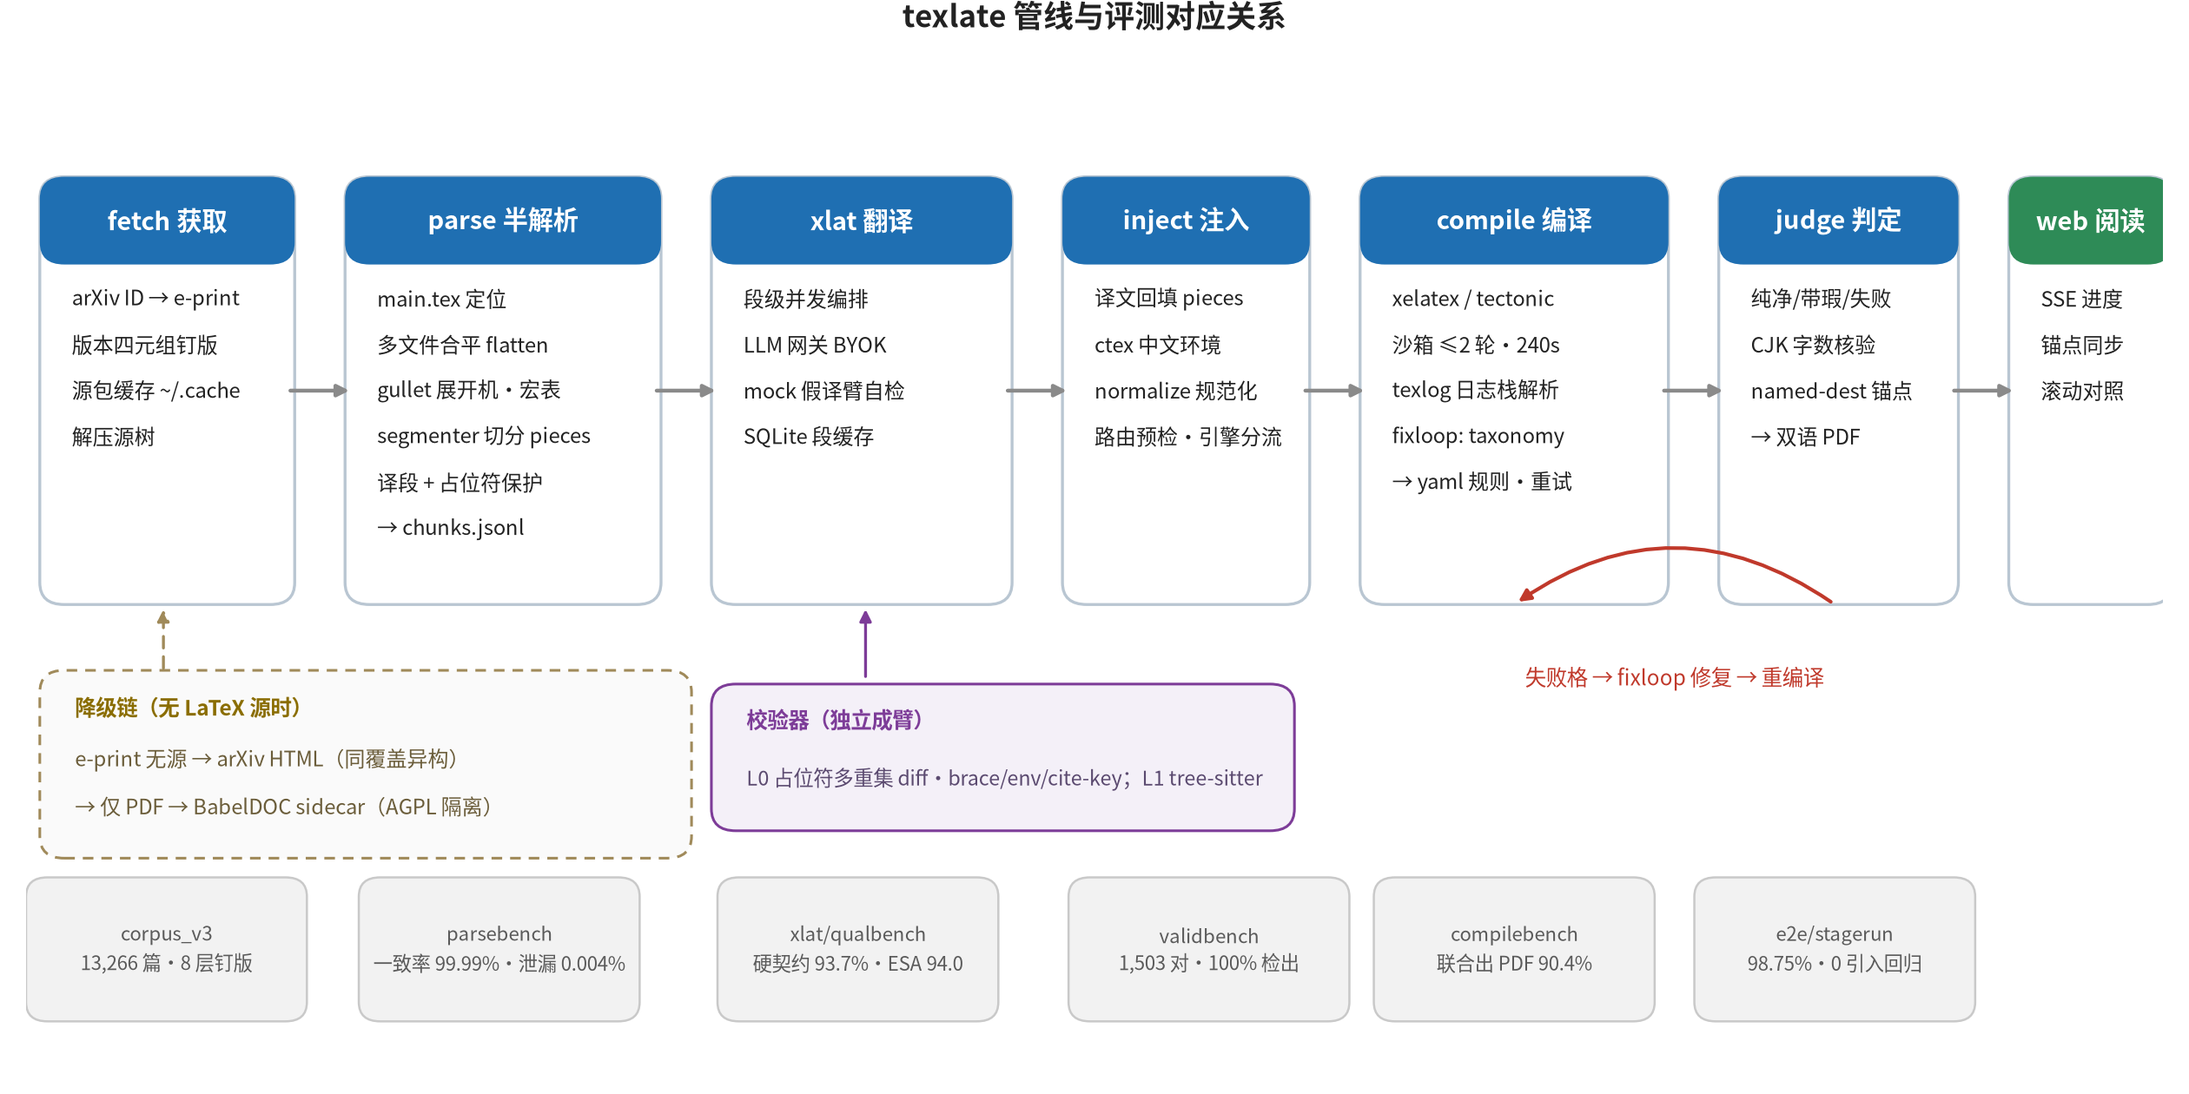
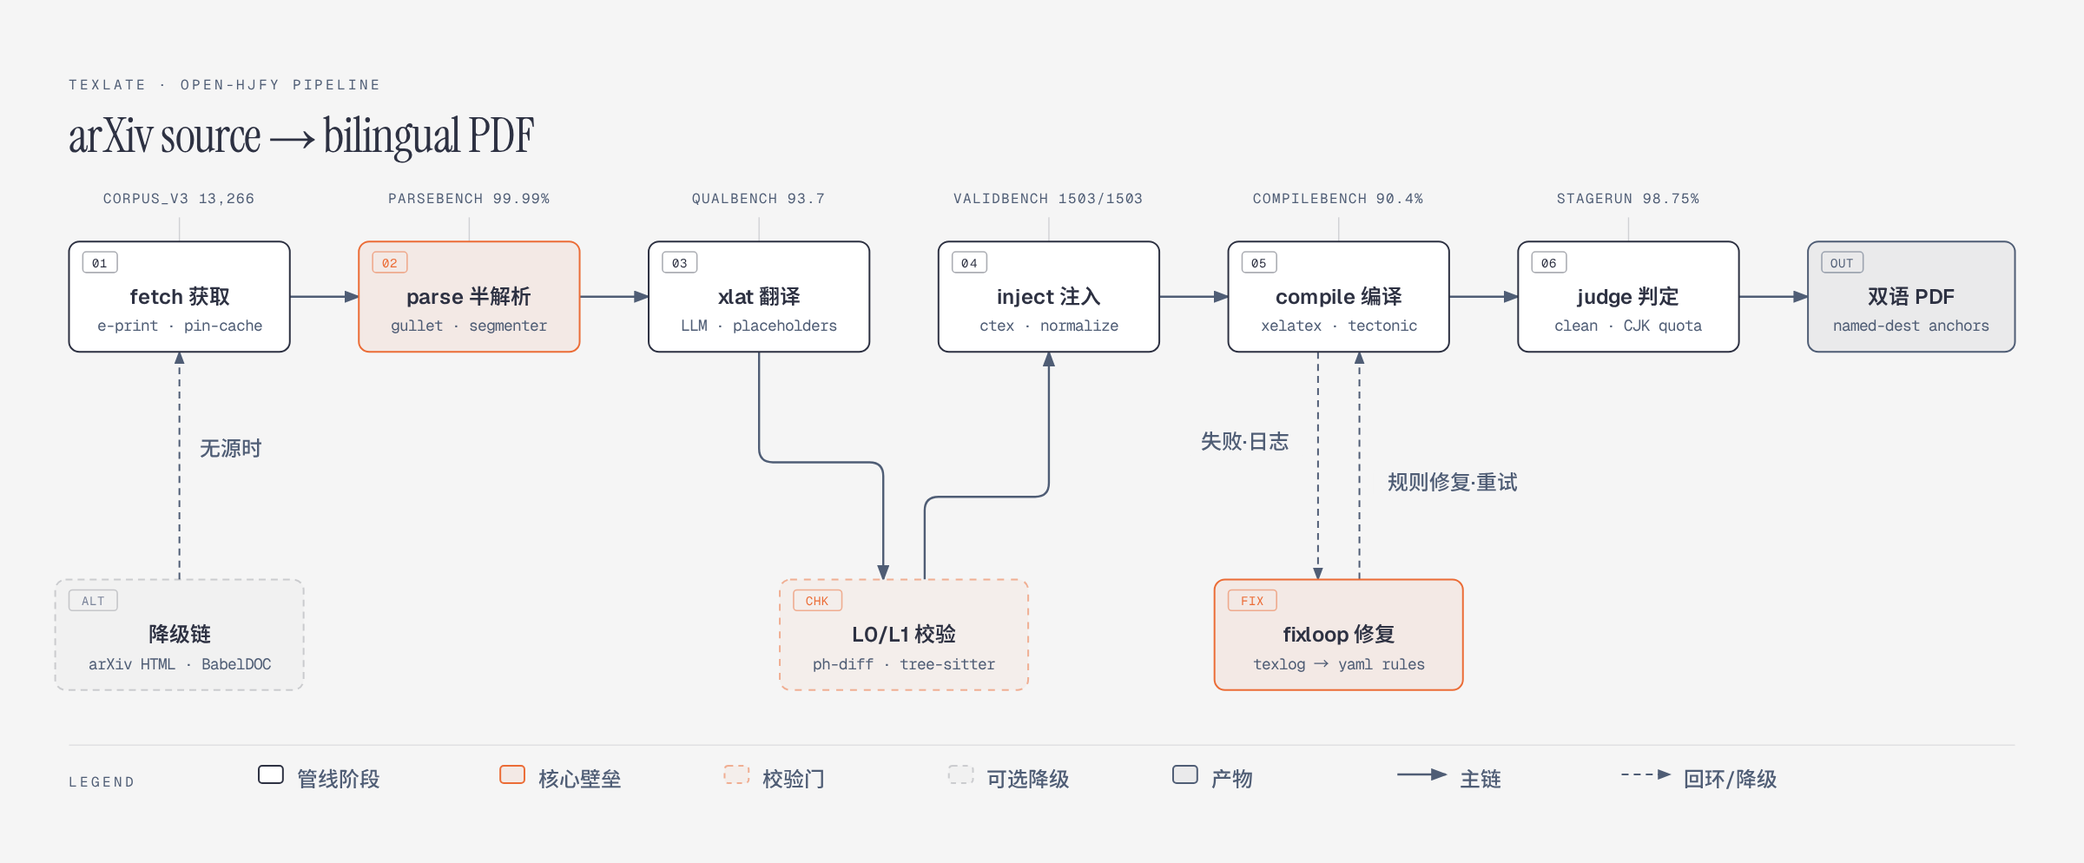
docs(readme): redraw pipeline figure with diagram-design skill
Replace the matplotlib flowchart with a diagram-design architecture
rendering: six canonical stages on a main rail, 双语 PDF terminal,
fallback chain / L0-L1 validation gate / fixloop return pair below,
parse + fixloop as the two focal nodes. Validation now sits inline on
the chain (no direct xlat->inject edge — the gate is load-bearing).
Bench readings move to quiet chips above each stage; web node and
per-stage bullets dropped. Source: bench-pipeline.html (self-check +
geometry verifier clean), PNG @2 via playwright.

diff --git a/docs/research/metrics-2026-09-19/bench-pipeline.html b/docs/research/metrics-2026-09-19/bench-pipeline.html
@@ -1,0 +1,230 @@
+<!DOCTYPE html>
+<html lang="zh-CN">
+<head>
+  <meta charset="UTF-8">
+  <meta name="viewport" content="width=device-width, initial-scale=1.0">
+  <title>texlate 管线全流程 · Architecture</title>
+  <link href="https://fonts.googleapis.com/css2?family=Instrument+Serif:ital@0;1&family=Geist:wght@400;500;600&family=Geist+Mono:wght@400;500;600&family=Noto+Serif:ital@0;1&family=Noto+Sans+KR:wght@400;500;600&family=Noto+Serif+KR:wght@400&family=Noto+Sans+SC:wght@400;500;600&family=Noto+Serif+SC:wght@400&family=Noto+Sans+TC:wght@400;500;600&family=Noto+Serif+TC:wght@400&display=swap" rel="stylesheet">
+  <style>
+    *, *::before, *::after { box-sizing: border-box; margin: 0; padding: 0; }
+    :root {
+      --color-paper:   #f5f5f5;
+      --color-ink:     #2d3142;
+      --color-muted:   #4f5d75;
+      --color-accent:  #eb6c36;
+      --font-sans:     'Geist', 'Noto Sans SC', 'Noto Sans CJK SC', 'PingFang SC', 'Microsoft YaHei', system-ui, sans-serif;
+      --font-serif:    'Instrument Serif', 'Noto Serif', 'Noto Serif SC', 'Noto Serif CJK SC', serif;
+      --font-mono:     'Geist Mono', ui-monospace, monospace;
+    }
+
+    body {
+      font-family: var(--font-sans);
+      background: var(--color-paper);
+      color: var(--color-ink);
+      min-height: 100vh;
+      display: flex;
+      align-items: center;
+      justify-content: center;
+      padding: 3rem 2rem;
+    }
+
+    .frame { max-width: 1200px; width: 100%; }
+
+    .eyebrow {
+      font-family: var(--font-mono);
+      font-size: 0.66rem;
+      font-weight: 500;
+      letter-spacing: 0.18em;
+      text-transform: uppercase;
+      color: var(--color-muted);
+      margin-bottom: 0.5rem;
+    }
+
+    h1 {
+      font-family: var(--font-serif);
+      font-size: clamp(1.5rem, 2.4vw + 0.75rem, 2rem);
+      font-weight: 400;
+      letter-spacing: -0.02em;
+      line-height: 1.15;
+      color: var(--color-ink);
+      margin-bottom: 1.5rem;
+    }
+
+    svg { width: 100%; min-width: 900px; display: block; }
+  </style>
+</head>
+<body>
+  <div class="frame">
+    <p class="eyebrow">Architecture · Diagram Design</p>
+    <h1>texlate 管线全流程</h1>
+
+    <svg viewBox="0 0 1208 500" xmlns="http://www.w3.org/2000/svg" role="img" aria-labelledby="texlate-pipeline-title texlate-pipeline-desc">
+      <title id="texlate-pipeline-title">texlate pipeline — arXiv source to bilingual PDF</title>
+      <desc id="texlate-pipeline-desc">Pipeline diagram showing six stages (fetch, parse, xlat, inject, compile, judge) producing a bilingual PDF, with a fallback source chain, an L0/L1 validation gate, and the fixloop repair engine as focal elements.</desc>
+      <defs>
+        <marker id="arrow" markerWidth="8" markerHeight="6" refX="7" refY="3" orient="auto"><polygon points="0 0, 8 3, 0 6" fill="#4f5d75"/></marker>
+        <marker id="arrow-accent" markerWidth="8" markerHeight="6" refX="7" refY="3" orient="auto"><polygon points="0 0, 8 3, 0 6" fill="#eb6c36"/></marker>
+        <marker id="arrow-link" markerWidth="8" markerHeight="6" refX="7" refY="3" orient="auto"><polygon points="0 0, 8 3, 0 6" fill="#2e5aa8"/></marker>
+      </defs>
+
+      <rect width="100%" height="100%" fill="#f5f5f5"/>
+
+      <!-- In-SVG header (kept inside so PNG export stays self-explanatory) -->
+      <text x="40" y="52" fill="#4f5d75" font-size="8" font-family="'Geist Mono', ui-monospace, monospace" letter-spacing="0.18em">TEXLATE · OPEN-HJFY PIPELINE</text>
+      <text x="40" y="88" fill="#2d3142" font-size="28" font-weight="400" font-family="'Instrument Serif', 'Noto Serif', serif" letter-spacing="-0.02em">arXiv source → bilingual PDF</text>
+
+      <!-- Bench evidence chips above each stage (quiet annotation row) -->
+      <text x="104" y="118" fill="#4f5d75" font-size="8" font-family="'Geist Mono', ui-monospace, monospace" text-anchor="middle" letter-spacing="0.06em">CORPUS_V3 13,266</text>
+      <text x="272" y="118" fill="#4f5d75" font-size="8" font-family="'Geist Mono', ui-monospace, monospace" text-anchor="middle" letter-spacing="0.06em">PARSEBENCH 99.99%</text>
+      <text x="440" y="118" fill="#4f5d75" font-size="8" font-family="'Geist Mono', ui-monospace, monospace" text-anchor="middle" letter-spacing="0.06em">QUALBENCH 93.7</text>
+      <text x="608" y="118" fill="#4f5d75" font-size="8" font-family="'Geist Mono', ui-monospace, monospace" text-anchor="middle" letter-spacing="0.06em">VALIDBENCH 1503/1503</text>
+      <text x="776" y="118" fill="#4f5d75" font-size="8" font-family="'Geist Mono', ui-monospace, monospace" text-anchor="middle" letter-spacing="0.06em">COMPILEBENCH 90.4%</text>
+      <text x="944" y="118" fill="#4f5d75" font-size="8" font-family="'Geist Mono', ui-monospace, monospace" text-anchor="middle" letter-spacing="0.06em">STAGERUN 98.75%</text>
+      <line x1="104" y1="126" x2="104" y2="140" stroke="rgba(45,49,66,0.18)" stroke-width="0.7"/>
+      <line x1="272" y1="126" x2="272" y2="140" stroke="rgba(45,49,66,0.18)" stroke-width="0.7"/>
+      <line x1="440" y1="126" x2="440" y2="140" stroke="rgba(45,49,66,0.18)" stroke-width="0.7"/>
+      <line x1="608" y1="126" x2="608" y2="140" stroke="rgba(45,49,66,0.18)" stroke-width="0.7"/>
+      <line x1="776" y1="126" x2="776" y2="140" stroke="rgba(45,49,66,0.18)" stroke-width="0.7"/>
+      <line x1="944" y1="126" x2="944" y2="140" stroke="rgba(45,49,66,0.18)" stroke-width="0.7"/>
+
+      <!-- ============ Arrows (drawn before all node boxes) ============ -->
+      <!-- Main chain, y=172 -->
+      <line x1="168" y1="172" x2="208" y2="172" stroke="#4f5d75" stroke-width="1.2" marker-end="url(#arrow)"/>
+      <line x1="336" y1="172" x2="376" y2="172" stroke="#4f5d75" stroke-width="1.2" marker-end="url(#arrow)"/>
+      <!-- no direct xlat→inject edge: the chain dips through the L0/L1 gate below -->
+      <line x1="672" y1="172" x2="712" y2="172" stroke="#4f5d75" stroke-width="1.2" marker-end="url(#arrow)"/>
+      <line x1="840" y1="172" x2="880" y2="172" stroke="#4f5d75" stroke-width="1.2" marker-end="url(#arrow)"/>
+      <line x1="1008" y1="172" x2="1048" y2="172" stroke="#4f5d75" stroke-width="1.2" marker-end="url(#arrow)"/>
+
+      <!-- Fallback chain → fetch (dashed, alternative intake) -->
+      <line x1="104" y1="336" x2="104" y2="204" stroke="#4f5d75" stroke-width="1" stroke-dasharray="4,3" marker-end="url(#arrow)"/>
+
+      <!-- xlat → validator (down-right-down elbow) -->
+      <path d="M 440,204 V 260 Q 440,268 448,268 H 504 Q 512,268 512,276 V 336"
+            fill="none" stroke="#4f5d75" stroke-width="1.2" marker-end="url(#arrow)"/>
+      <!-- validator → inject (up-right-up elbow) -->
+      <path d="M 536,336 V 296 Q 536,288 544,288 H 600 Q 608,288 608,280 V 204"
+            fill="none" stroke="#4f5d75" stroke-width="1.2" marker-end="url(#arrow)"/>
+
+      <!-- compile ⇄ fixloop (return pair, dashed) -->
+      <line x1="764" y1="204" x2="764" y2="336" stroke="#4f5d75" stroke-width="1" stroke-dasharray="4,3" marker-end="url(#arrow)"/>
+      <line x1="788" y1="336" x2="788" y2="204" stroke="#4f5d75" stroke-width="1" stroke-dasharray="4,3" marker-end="url(#arrow)"/>
+
+      <!-- Arrow labels (12px sans for CJK per register rule, masked) -->
+      <rect x="112" y="252" width="44" height="16" rx="2" fill="#f5f5f5"/>
+      <text x="134" y="264" fill="#4f5d75" font-size="12" font-weight="500" font-family="'Geist','Noto Sans SC','Noto Sans CJK SC','PingFang SC','Microsoft YaHei',sans-serif" text-anchor="middle">无源时</text>
+      <rect x="688" y="248" width="68" height="16" rx="2" fill="#f5f5f5"/>
+      <text x="722" y="260" fill="#4f5d75" font-size="12" font-weight="500" font-family="'Geist','Noto Sans SC','Noto Sans CJK SC','PingFang SC','Microsoft YaHei',sans-serif" text-anchor="middle">失败·日志</text>
+      <rect x="796" y="272" width="92" height="16" rx="2" fill="#f5f5f5"/>
+      <text x="842" y="284" fill="#4f5d75" font-size="12" font-weight="500" font-family="'Geist','Noto Sans SC','Noto Sans CJK SC','PingFang SC','Microsoft YaHei',sans-serif" text-anchor="middle">规则修复·重试</text>
+
+      <!-- ============ Main-row nodes (y=140..204) ============ -->
+      <!-- 01 fetch -->
+      <rect x="40" y="140" width="128" height="64" rx="6" fill="#f5f5f5"/>
+      <rect x="40" y="140" width="128" height="64" rx="6" fill="#ffffff" stroke="#2d3142" stroke-width="1"/>
+      <rect x="48" y="146" width="20" height="12" rx="2" fill="transparent" stroke="rgba(45,49,66,0.40)" stroke-width="0.8"/>
+      <text x="58" y="155" fill="#2d3142" font-size="7" font-family="'Geist Mono', ui-monospace, monospace" text-anchor="middle" letter-spacing="0.08em">01</text>
+      <text x="104" y="176" fill="#2d3142" font-size="12" font-weight="600" font-family="'Geist','Noto Sans SC','Noto Sans CJK SC','PingFang SC','Microsoft YaHei',sans-serif" text-anchor="middle">fetch 获取</text>
+      <text x="104" y="192" fill="#4f5d75" font-size="9" font-family="'Geist Mono', ui-monospace, monospace" text-anchor="middle">e-print · pin-cache</text>
+
+      <!-- 02 parse (FOCAL) -->
+      <rect x="208" y="140" width="128" height="64" rx="6" fill="#f5f5f5"/>
+      <rect x="208" y="140" width="128" height="64" rx="6" fill="rgba(235,108,54,0.08)" stroke="#eb6c36" stroke-width="1"/>
+      <rect x="216" y="146" width="20" height="12" rx="2" fill="transparent" stroke="rgba(235,108,54,0.50)" stroke-width="0.8"/>
+      <text x="226" y="155" fill="#eb6c36" font-size="7" font-family="'Geist Mono', ui-monospace, monospace" text-anchor="middle" letter-spacing="0.08em">02</text>
+      <text x="272" y="176" fill="#2d3142" font-size="12" font-weight="600" font-family="'Geist','Noto Sans SC','Noto Sans CJK SC','PingFang SC','Microsoft YaHei',sans-serif" text-anchor="middle">parse 半解析</text>
+      <text x="272" y="192" fill="#4f5d75" font-size="9" font-family="'Geist Mono', ui-monospace, monospace" text-anchor="middle">gullet · segmenter</text>
+
+      <!-- 03 xlat -->
+      <rect x="376" y="140" width="128" height="64" rx="6" fill="#f5f5f5"/>
+      <rect x="376" y="140" width="128" height="64" rx="6" fill="#ffffff" stroke="#2d3142" stroke-width="1"/>
+      <rect x="384" y="146" width="20" height="12" rx="2" fill="transparent" stroke="rgba(45,49,66,0.40)" stroke-width="0.8"/>
+      <text x="394" y="155" fill="#2d3142" font-size="7" font-family="'Geist Mono', ui-monospace, monospace" text-anchor="middle" letter-spacing="0.08em">03</text>
+      <text x="440" y="176" fill="#2d3142" font-size="12" font-weight="600" font-family="'Geist','Noto Sans SC','Noto Sans CJK SC','PingFang SC','Microsoft YaHei',sans-serif" text-anchor="middle">xlat 翻译</text>
+      <text x="440" y="192" fill="#4f5d75" font-size="9" font-family="'Geist Mono', ui-monospace, monospace" text-anchor="middle">LLM · placeholders</text>
+
+      <!-- 04 inject -->
+      <rect x="544" y="140" width="128" height="64" rx="6" fill="#f5f5f5"/>
+      <rect x="544" y="140" width="128" height="64" rx="6" fill="#ffffff" stroke="#2d3142" stroke-width="1"/>
+      <rect x="552" y="146" width="20" height="12" rx="2" fill="transparent" stroke="rgba(45,49,66,0.40)" stroke-width="0.8"/>
+      <text x="562" y="155" fill="#2d3142" font-size="7" font-family="'Geist Mono', ui-monospace, monospace" text-anchor="middle" letter-spacing="0.08em">04</text>
+      <text x="608" y="176" fill="#2d3142" font-size="12" font-weight="600" font-family="'Geist','Noto Sans SC','Noto Sans CJK SC','PingFang SC','Microsoft YaHei',sans-serif" text-anchor="middle">inject 注入</text>
+      <text x="608" y="192" fill="#4f5d75" font-size="9" font-family="'Geist Mono', ui-monospace, monospace" text-anchor="middle">ctex · normalize</text>
+
+      <!-- 05 compile -->
+      <rect x="712" y="140" width="128" height="64" rx="6" fill="#f5f5f5"/>
+      <rect x="712" y="140" width="128" height="64" rx="6" fill="#ffffff" stroke="#2d3142" stroke-width="1"/>
+      <rect x="720" y="146" width="20" height="12" rx="2" fill="transparent" stroke="rgba(45,49,66,0.40)" stroke-width="0.8"/>
+      <text x="730" y="155" fill="#2d3142" font-size="7" font-family="'Geist Mono', ui-monospace, monospace" text-anchor="middle" letter-spacing="0.08em">05</text>
+      <text x="776" y="176" fill="#2d3142" font-size="12" font-weight="600" font-family="'Geist','Noto Sans SC','Noto Sans CJK SC','PingFang SC','Microsoft YaHei',sans-serif" text-anchor="middle">compile 编译</text>
+      <text x="776" y="192" fill="#4f5d75" font-size="9" font-family="'Geist Mono', ui-monospace, monospace" text-anchor="middle">xelatex · tectonic</text>
+
+      <!-- 06 judge -->
+      <rect x="880" y="140" width="128" height="64" rx="6" fill="#f5f5f5"/>
+      <rect x="880" y="140" width="128" height="64" rx="6" fill="#ffffff" stroke="#2d3142" stroke-width="1"/>
+      <rect x="888" y="146" width="20" height="12" rx="2" fill="transparent" stroke="rgba(45,49,66,0.40)" stroke-width="0.8"/>
+      <text x="898" y="155" fill="#2d3142" font-size="7" font-family="'Geist Mono', ui-monospace, monospace" text-anchor="middle" letter-spacing="0.08em">06</text>
+      <text x="944" y="176" fill="#2d3142" font-size="12" font-weight="600" font-family="'Geist','Noto Sans SC','Noto Sans CJK SC','PingFang SC','Microsoft YaHei',sans-serif" text-anchor="middle">judge 判定</text>
+      <text x="944" y="192" fill="#4f5d75" font-size="9" font-family="'Geist Mono', ui-monospace, monospace" text-anchor="middle">clean · CJK quota</text>
+
+      <!-- Terminal: 双语 PDF (store) -->
+      <rect x="1048" y="140" width="120" height="64" rx="6" fill="#f5f5f5"/>
+      <rect x="1048" y="140" width="120" height="64" rx="6" fill="rgba(45,49,66,0.05)" stroke="#4f5d75" stroke-width="1"/>
+      <rect x="1056" y="146" width="24" height="12" rx="2" fill="transparent" stroke="rgba(79,93,117,0.50)" stroke-width="0.8"/>
+      <text x="1068" y="155" fill="#4f5d75" font-size="7" font-family="'Geist Mono', ui-monospace, monospace" text-anchor="middle" letter-spacing="0.08em">OUT</text>
+      <text x="1108" y="176" fill="#2d3142" font-size="12" font-weight="600" font-family="'Geist','Noto Sans SC','Noto Sans CJK SC','PingFang SC','Microsoft YaHei',sans-serif" text-anchor="middle">双语 PDF</text>
+      <text x="1108" y="192" fill="#4f5d75" font-size="9" font-family="'Geist Mono', ui-monospace, monospace" text-anchor="middle">named-dest anchors</text>
+
+      <!-- ============ Aux-row nodes (y=336..400) ============ -->
+      <!-- 降级链 (optional/dashed) -->
+      <rect x="32" y="336" width="144" height="64" rx="6" fill="#f5f5f5"/>
+      <rect x="32" y="336" width="144" height="64" rx="6" fill="rgba(45,49,66,0.02)" stroke="rgba(45,49,66,0.20)" stroke-width="1" stroke-dasharray="4,3"/>
+      <rect x="40" y="342" width="28" height="12" rx="2" fill="transparent" stroke="rgba(45,49,66,0.22)" stroke-width="0.8"/>
+      <text x="54" y="351" fill="#7a8399" font-size="7" font-family="'Geist Mono', ui-monospace, monospace" text-anchor="middle" letter-spacing="0.08em">ALT</text>
+      <text x="104" y="372" fill="#2d3142" font-size="12" font-weight="600" font-family="'Geist','Noto Sans SC','Noto Sans CJK SC','PingFang SC','Microsoft YaHei',sans-serif" text-anchor="middle">降级链</text>
+      <text x="104" y="388" fill="#4f5d75" font-size="9" font-family="'Geist Mono', ui-monospace, monospace" text-anchor="middle">arXiv HTML · BabelDOC</text>
+
+      <!-- L0/L1 校验 (security gate) -->
+      <rect x="452" y="336" width="144" height="64" rx="6" fill="#f5f5f5"/>
+      <rect x="452" y="336" width="144" height="64" rx="6" fill="rgba(235,108,54,0.05)" stroke="rgba(235,108,54,0.50)" stroke-width="1" stroke-dasharray="4,4"/>
+      <rect x="460" y="342" width="28" height="12" rx="2" fill="transparent" stroke="rgba(235,108,54,0.50)" stroke-width="0.8"/>
+      <text x="474" y="351" fill="#eb6c36" font-size="7" font-family="'Geist Mono', ui-monospace, monospace" text-anchor="middle" letter-spacing="0.08em">CHK</text>
+      <text x="524" y="372" fill="#2d3142" font-size="12" font-weight="600" font-family="'Geist','Noto Sans SC','Noto Sans CJK SC','PingFang SC','Microsoft YaHei',sans-serif" text-anchor="middle">L0/L1 校验</text>
+      <text x="524" y="388" fill="#4f5d75" font-size="9" font-family="'Geist Mono', ui-monospace, monospace" text-anchor="middle">ph-diff · tree-sitter</text>
+
+      <!-- fixloop (FOCAL) -->
+      <rect x="704" y="336" width="144" height="64" rx="6" fill="#f5f5f5"/>
+      <rect x="704" y="336" width="144" height="64" rx="6" fill="rgba(235,108,54,0.08)" stroke="#eb6c36" stroke-width="1"/>
+      <rect x="712" y="342" width="28" height="12" rx="2" fill="transparent" stroke="rgba(235,108,54,0.50)" stroke-width="0.8"/>
+      <text x="726" y="351" fill="#eb6c36" font-size="7" font-family="'Geist Mono', ui-monospace, monospace" text-anchor="middle" letter-spacing="0.08em">FIX</text>
+      <text x="776" y="372" fill="#2d3142" font-size="12" font-weight="600" font-family="'Geist','Noto Sans SC','Noto Sans CJK SC','PingFang SC','Microsoft YaHei',sans-serif" text-anchor="middle">fixloop 修复</text>
+      <text x="776" y="388" fill="#4f5d75" font-size="9" font-family="'Geist Mono', ui-monospace, monospace" text-anchor="middle">texlog → yaml rules</text>
+
+      <!-- ============ Legend strip ============ -->
+      <line x1="40" y1="432" x2="1168" y2="432" stroke="rgba(45,49,66,0.10)" stroke-width="0.8"/>
+      <text x="40" y="456" fill="#4f5d75" font-size="8" font-family="'Geist Mono', ui-monospace, monospace" letter-spacing="0.18em">LEGEND</text>
+
+      <rect x="150" y="444" width="14" height="10" rx="2" fill="#ffffff" stroke="#2d3142" stroke-width="1"/>
+      <text x="172" y="456" fill="#4f5d75" font-size="12" font-weight="500" font-family="'Geist','Noto Sans SC','Noto Sans CJK SC','PingFang SC','Microsoft YaHei',sans-serif">管线阶段</text>
+
+      <rect x="290" y="444" width="14" height="10" rx="2" fill="rgba(235,108,54,0.08)" stroke="#eb6c36" stroke-width="1"/>
+      <text x="312" y="456" fill="#4f5d75" font-size="12" font-weight="500" font-family="'Geist','Noto Sans SC','Noto Sans CJK SC','PingFang SC','Microsoft YaHei',sans-serif">核心壁垒</text>
+
+      <rect x="420" y="444" width="14" height="10" rx="2" fill="rgba(235,108,54,0.05)" stroke="rgba(235,108,54,0.50)" stroke-width="1" stroke-dasharray="3,3"/>
+      <text x="442" y="456" fill="#4f5d75" font-size="12" font-weight="500" font-family="'Geist','Noto Sans SC','Noto Sans CJK SC','PingFang SC','Microsoft YaHei',sans-serif">校验门</text>
+
+      <rect x="550" y="444" width="14" height="10" rx="2" fill="rgba(45,49,66,0.02)" stroke="rgba(45,49,66,0.20)" stroke-width="1" stroke-dasharray="3,3"/>
+      <text x="572" y="456" fill="#4f5d75" font-size="12" font-weight="500" font-family="'Geist','Noto Sans SC','Noto Sans CJK SC','PingFang SC','Microsoft YaHei',sans-serif">可选降级</text>
+
+      <rect x="680" y="444" width="14" height="10" rx="2" fill="rgba(45,49,66,0.05)" stroke="#4f5d75" stroke-width="1"/>
+      <text x="702" y="456" fill="#4f5d75" font-size="12" font-weight="500" font-family="'Geist','Noto Sans SC','Noto Sans CJK SC','PingFang SC','Microsoft YaHei',sans-serif">产物</text>
+
+      <line x1="810" y1="449" x2="838" y2="449" stroke="#4f5d75" stroke-width="1.2" marker-end="url(#arrow)"/>
+      <text x="846" y="456" fill="#4f5d75" font-size="12" font-weight="500" font-family="'Geist','Noto Sans SC','Noto Sans CJK SC','PingFang SC','Microsoft YaHei',sans-serif">主链</text>
+
+      <line x1="940" y1="449" x2="968" y2="449" stroke="#4f5d75" stroke-width="1" stroke-dasharray="4,3" marker-end="url(#arrow)"/>
+      <text x="976" y="456" fill="#4f5d75" font-size="12" font-weight="500" font-family="'Geist','Noto Sans SC','Noto Sans CJK SC','PingFang SC','Microsoft YaHei',sans-serif">回环/降级</text>
+    </svg>
+  </div>
+</body>
+</html>

diff --git a/README.md b/README.md
@@ -6,7 +6,7 @@
 
 管线：`fetch`(arXiv e-print 钉版缓存) → `parse`(LaTeX 半解析 + 受限宏展开) → `xlat`(LLM 段落翻译，公式/引用/宏全占位符化) → `inject`(ctex 中文环境注入) → `compile`(tectonic/xelatex + fixloop 规则引擎自动修复) → `judge`(编译日志与 CJK 字数核验)。
 
-![texlate 管线全流程图：获取→半解析→翻译→注入→编译→判定→阅读，含降级链、独立校验器与修复循环回环，底部标注各评测臂读数](shots/bench-pipeline.png)
+![texlate 管线全流程图：获取→半解析→翻译→注入→编译→判定→双语 PDF，含降级链、L0/L1 校验门与 fixloop 修复回环，顶部标注各评测臂读数](shots/bench-pipeline.png)
 
 ## 安装
 
